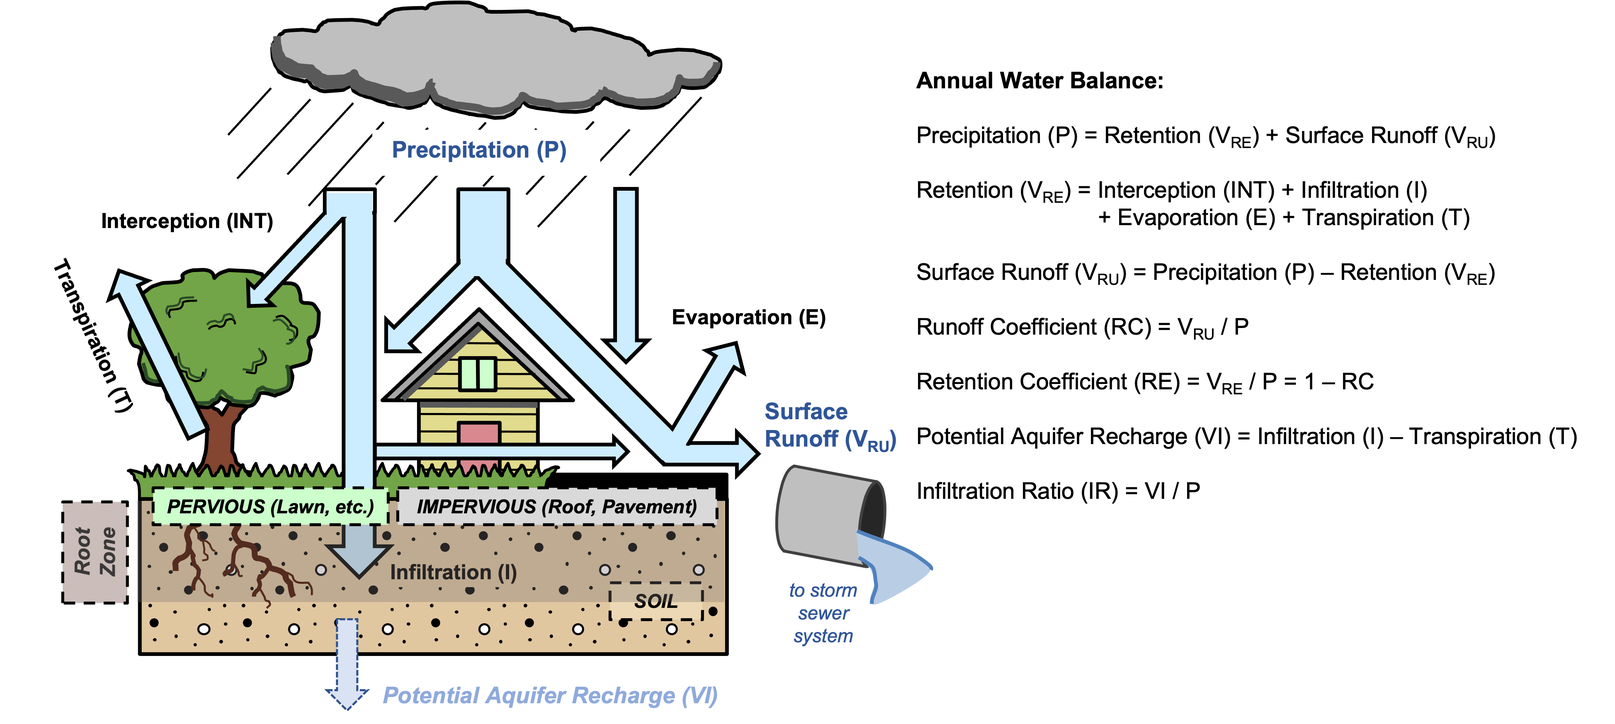
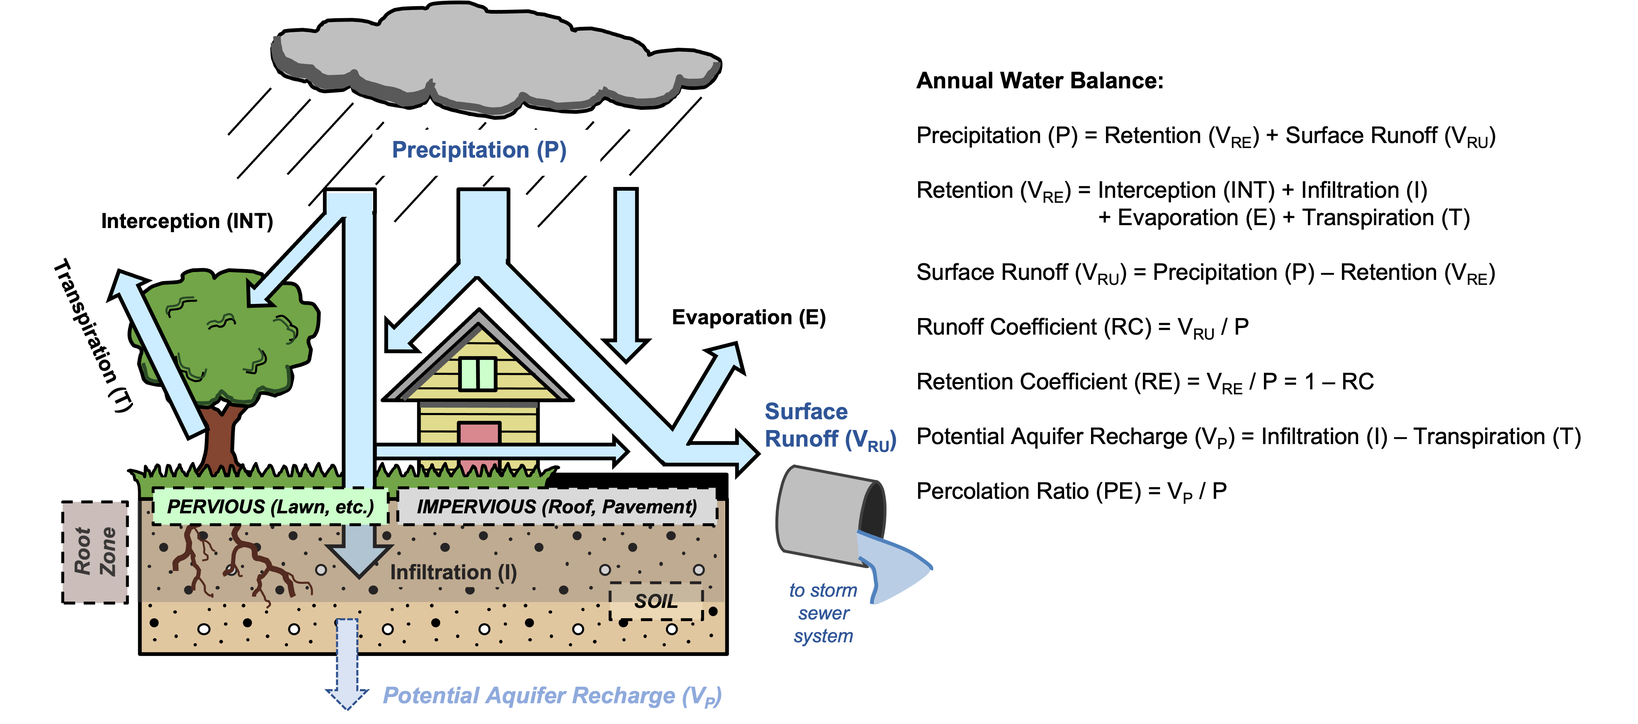
update with final changes from Ben

diff --git a/source/stormwater.rst b/source/stormwater.rst
@@ -23,57 +23,56 @@ The model calculates annual stormwater retention volume and the associated water
 .. figure:: ./stormwater/figure1_hydroschematic.png
    :scale: 25%
 
-   Major hydrologic fluxes in the urban stormwater balance, illustrating potential fates of incoming precipitation as it falls on pervious surfaces (soil or vegetation, such as lawns and trees) and impervious surfaces (rooftops and paved surfaces). Potential aquifer recharge is estimated during dry weather periods as the difference between the volume of infiltrated rainfall and the volume of water transpired by vegetation over a soil depth in which most plant roots may be found.
+   **Major hydrologic fluxes in the urban stormwater balance**, illustrating potential fates of incoming precipitation as it falls on pervious surfaces (soil or vegetation, such as lawns and trees) and impervious surfaces (rooftops and paved surfaces). Potential aquifer recharge is estimated during dry weather periods as the difference between the volume of infiltrated rainfall and the volume of water transpired by vegetation over a soil depth in which most plant roots may be found.
 
 
 Estimate stormwater retention, recharge, and runoff
 ^^^^^^^^^^^^^^^^^^^^^^^^^^^^^^^^^^^^^^^^^^^^^^^^^^^^^^^
 
-The model requires values of the annual runoff coefficients (:math:`a`), and optionally the percolation ratios (:math:`b`), for each land use-land cover (LULC) type in the biophysical table. The runoff coefficient is defined as the ratio between annual surface runoff and annual precipitation, a value between 0 and 1, while the recharge ratio is the ratio between annual percolation to groundwater (“potential aquifer recharge”) and annual precipitation (:numref:`hydro-schematic`). These coefficients will typically be a function of the land cover and soil properties in a watershed; see `Input Guidance`_ for further details on determining these values.
+The model requires values of the annual runoff coefficients (:math:`RC`), and optionally the percolation ratios (:math:`PE`), for each land use-land cover (LULC) type in the biophysical table. The runoff coefficient is defined as the ratio between annual surface runoff and annual precipitation, a value between 0 and 1, while the percolation ratio is the ratio between annual percolation to groundwater (“potential aquifer recharge”) and annual precipitation (:numref:`hydro-schematic`). These coefficients will typically be a function of the land cover and soil properties in a watershed; see `Input Guidance`_ for further details on determining these values.
 
-For each LULC class :math:`x`, the stormwater retention coefficient :math:`c_x` is calculated as:
+For each LULC x, the stormwater retention coefficient :math:`RE_x` is calculated as:
 
-.. math:: c_x = 1 - a_x
+.. math:: RE_x=1-RC_x
 
-Based on the LULC and hydrologic soil group rasters, the model assigns the stormwater retention coefficients (:math:`c_i`) to each pixel :math:`i`. Next, the model computes :math:`V_{c,i}`, the retained volume (:math:`m^3/yr`) for each pixel :math:`i` as:
+Based on the LULC and hydrologic soil group rasters, the model assigns the stormwater retention coefficients (:math:`RE_i`) to each pixel :math: `i`. Next, the model computes :math:`V_{RE,i}`, the retained volume (:math: `m3/yr`) for each pixel :math: `i` as:
 
-.. math:: V_{c,i}=0.001\cdot p_i\cdot t_i\cdot A
+.. math:: V_{RE_i}=0.001\cdot P_i\cdot RE_i\cdot pixel.area
 
-where :math:`p_i` is annual precipitation on pixel :math:`i` (:math:`mm/yr`) and :math:`A` is the pixel area in :math:`m^2`.
+where :math:`P_i` is annual precipitation (:math:`mm/yr`) and :math:`pixel.area` is the pixel area in :math:`m^2`.
 
-Runoff volume :math:`V_{a}` (:math:`m^3/yr`) is calculated from the runoff coefficients (:math:`a` or :math:`a_{adj}`): If the Adjust Retention Coefficients option is selected (see below), the runoff coefficients may differ from the input runoff coefficient values, as they are derived from the (adjusted) retention coefficients using the equation below:
+Runoff volume :math:`V_{RU}` (:math:`m^3/yr`) is calculated from the runoff coefficients (:math:`RU` or :math: `RC`): If the Adjust Retention Coefficients option is selected (see below), the runoff coefficients may differ from the input :math:`RC` values, as they are derived from the (adjusted) retention coefficients using the equation below:
 
-.. math:: a_i = 1 - c_i
+.. math:: RU_x=1-RE_x
 
-.. math:: V_{a,i}=0.001\cdot p_i\cdot c_i\cdot A
+.. math:: V_{RU,i}=0.001\cdot P_i\cdot RU_i\cdot pixel.area
 
-Optionally, if recharge ratios have been defined by the user, the model assigns these values to each pixel :math:`i` based on the LULC and soil hydrological group rasters, and computes :math:`VI`, the infiltrated volume (:math:`m^3/yr`) for each pixel :math:`i`:
+Optionally, if percolation ratios have been defined by the user, the model assigns these values to each pixel :math: `i` based on the LULC and soil hydrological group rasters, and computes :math: `V_{P}`, the volume of water that percolates through soil to recharge the aquifer (:math: `m^3/yr`) for each pixel :math: `i`:
 
-.. math:: V_{b,i}=0.001\cdot p_i\cdot b_i\cdot A
+.. math:: V_{P}_i=0.001\cdot P_i\cdot PE_i\cdot pixel.area
 
-Where :math:`b_i` is the annual recharge ratio on pixel :math:`i` (“potential aquifer recharge”; :numref:`hydro-schematic`).
-
+Where :math: `PE_i` is the annual percolation ratio (“potential aquifer recharge”; Figure :fig: `hydro-schematic`).
 
 Adjust Retention Coefficient for directly-connected impervious (Optional)
 ^^^^^^^^^^^^^^^^^^^^^^^^^^^^^^^^^^^^^^^^^^^^^^^^^^^^^^^^^^^^^^^^^^^^^^^^^^^^^^^^^^
-Retention on a given pixel, at least when considered at an aggregated sub-watershed scale, should be affected by retention on upstream and downstream pixels. (For example, the current InVEST nutrient delivery ratio model takes this into account through a flowpath delineation and retention length framework, which is not as feasible in an urban drainage network because of how storm drains alter surface and sub-surface flow paths.) To account for this retention of runoff flowing to surrounding pixels, the stormwater model optionally uses a simple modification to retention. The retention coefficient, :math:`t_{i}`, for pixel :math:`i` is adjusted upwards based on the retention value of its neighboring pixels within a certain retention radius. The adjustment, :math:`C_{i}`, is applied to the un-retained runoff from a given pixel, as follows:
+Retention on a given pixel, at least when considered at an aggregated sub-watershed scale, should be affected by retention on upstream and downstream pixels. (For example, the current InVEST nutrient delivery ratio model takes this into account through a flowpath delineation and retention length framework, which is not as feasible in an urban drainage network because of how storm drains alter surface and sub-surface flow paths.) To account for this retention of runoff flowing to surrounding pixels, the stormwater model optionally uses a simple modification to retention. The retention coefficient, :math:`RE_{i}`, for pixel :math:`i` is adjusted upwards based on the retention value of its neighboring pixels within a certain retention radius. The adjustment, :math: ‘C_{i}`, is applied to the un-retained runoff from a given pixel, as follows:
 
-.. math:: c^{adj}_{i} = c_{i} + (1 - c_{i})\cdot J_{i}
+.. math:: RE^{adj}_{i} = RE_{i} + (1 - RE_{i})\cdot C_{i}
    :label: adjusted_retention_coefficient
 
-where :math:`c^{adj}_{i}` is the adjusted retention coefficient on pixel :math:`i`, and the adjustment factor :math:‘J_{i}` has one of the following values:
+where :math: `RE^{adj}_{i}` is the adjusted retention coefficient, and the adjustment factor :math: ‘C_{i}` has one of the following values:
 
-* 0, if the pixel :math:`i` is near a directly-connected impervious area and/or near a road.
-* :math:`c_{mean,i}`, otherwise
-
+0, if the pixel :math:`i` is near a directly-connected impervious area and/or near a road.
 A pixel is "near" a directly-connected impervious area if its centerpoint is within a radius :math:`l` of the centerpoint of a pixel whose LULC class is marked as connected (has a 1 in the biophysical table ``is_connected`` column)
-A pixel is "near" a road if its centerpoint is within a radius :math:`l` of the centerpoint of a road pixel (determined by rasterizing a road centerlines vector).
+A pixel is "near" a road if its centerpoint is within a radius :math:`l` of the centerpoint of a road pixel (determined by rasterizing a road centerlines vector)
+:math:`R_{mean,i}`, otherwise
 
-:math:`c_{mean,i}` is the average retention coefficient of the pixel :math:`i` and its valid neighboring pixels. "Neighboring" pixels are those which are not further than the retention radius :math:`l` from :math:`i`, measured centerpoint-to-centerpoint.
+where :math:`R_{mean,i}` is the average retention coefficient of the pixel :math:`i` and its valid neighboring pixels. "Neighboring" pixels are those which are not further than the retention radius :math:`l` from :math:`i`, measured centerpoint-to-centerpoint.
 
 In other words, no additional retention is provided by surrounding land if the pixel is considered directly-connected, i.e., is near dense urban land use or roadways, which in most urban areas are directly connected to the drainage network by ditches or sub-surface pipes. Otherwise, the pixel’s retention coefficient is increased proportional to the retention provided by its neighboring pixels.
 
-**Note 1 on Connectedness:** The consideration of connectedness to the drainage network is somewhat subjective but should be dictated by the land cover layer being used. Thus, determination of "connectedness" is left up to the user, since land use / land cover layers might have more (or less) detail, depending on availability. The default characterization of connectedness (see the sample table in `Input Guidance`_ below) is based on the US National Land Cover Database (NLCD) and on assumptions of the connectedness of its most “developed” categories. More specifically, NLCD has broad categories of development intensity (Open, Low, Medium, and High) that are essentially bins of imperviousness, and we made the assumption that the "High" and "Medium" development categories would likely be fully connected to storm sewer systems (i.e. given a value of 1 for the ``is_connected`` column in the biophysical table), due to having > 50% imperviousness per the NLCD specification. The Low and Open categories were lower imperviousness (< 50%) and might contain some cover types like parks that are not connected and/or provide more retention, and were assumed effectively disconnected (value of 0 for ``is_connected``). Finally, the use of an optional **road line layer**, a dataset commonly available for cities, provides further classification of pixels with direct connection to the storm drain network (a calculation the model handles internally).
+
+**Note 1 on Connectedness:** The consideration of connectedness to the drainage network is somewhat subjective but should be dictated by the land cover layer being used. Thus, determination of "connectedness" is left up to the user, since land use / land cover layers might have more (or less) detail, depending on availability. The default characterization of connectedness (see the sample table in `Input Guidance`_below) is based on the US National Land Cover Database (NLCD) and on assumptions of the connectedness of its most “developed” categories. More specifically, NLCD has broad categories of development intensity (Open, Low, Medium, and High) that are essentially bins of imperviousness, and we made the assumption that the "High" and "Medium" development categories would likely be fully connected to storm sewer systems (i.e. given a value of 1 for the ``is_connected`` column in the biophysical table), due to having > 50% imperviousness per the NLCD specification. The Low and Open categories were lower imperviousness (< 50%) and might contain some cover types like parks that are not connected and/or provide more retention, and were assumed effectively disconnected (value of 0 for ``is_connected``). Finally, the use of an optional **road line layer**, a dataset commonly available for cities, provides further classification of pixels with direct connection to the storm drain network (a calculation the model handles internally).
 
 **Note 2 on Retention Radius :math:`l`:** This is the distance from a pixel over which to check for connectedness to the storm drainage network and/or consider additional retention. Another way to consider the parameter is as the maximum overland distance runoff might travel in an urban watershed before encountering connected pavement or infiltrating completely, and this might differ slightly depending on land use. For example, if the depth of a typical residential lot is 40 m, then the maximum drainage distance on the parcel to either the street (front) or the alley (back) is roughly 20 m, and thus 20 m (or less) might be an appropriate retention radius to use for a land use that is primarily dense residential.
 
@@ -82,13 +81,13 @@ In other words, no additional retention is provided by surrounding land if the p
 Calculate water quality benefits of stormwater retention (Optional)
 ^^^^^^^^^^^^^^^^^^^^^^^^^^^^^^^^^^^^^^^^^^^^^^^^^^^^^^^^^^^^^^^^^^^
 
-The potential water quality impact of stormwater retention is determined as the pollutant mass associated with retained stormwater, i.e. the amount of pollutant load avoided. The annual avoided pollutant load :math:`S`, in :math:`kg/yr`, is calculated for each pixel :math:`i` as the product of retained volume (:math:`m^3/yr`) and the event mean concentration (:math:`E`) of a pollutant, in :math:`mg/L`:
+The potential water quality impact of stormwater retention is determined as the pollutant mass associated with retained stormwater, i.e. the amount of pollutant load avoided. The annual avoided pollutant load, in :math: `kg/yr`, is calculated for each pixel :math: `i` as the product of retained volume (:math: `m^3/yr`) and the event mean concentration (:math: `EMC`) of a pollutant, in :math: `mg/L`:
 
-.. math:: S_i=0.001\cdot V_{t,i}\cdot E
+.. math:: Avoided.load_i=0.001\cdot V_{RE,i}\cdot EMC
 
-Similarly, the annual pollutant load :math:`T` (:math:`kg/yr`) exported by surface runoff is calculated from the runoff volume:
+Similarly, the annual pollutant load (:math:`kg/yr`) exported by surface runoff is calculated from the runoff volume:
 
-.. math:: T_i=0.001\cdot V_{n,i}\cdot e
+.. math:: Load_i=0.001\cdot V_{RU,i}\cdot EMC
 
 EMCs for each pollutant are assigned to land use classes using the biophysical table. Nitrogen and phosphorus are common pollutants of interest, but any stormwater pollutants (such as sediment, metals, or organic compounds) may be used by providing EMC values for those pollutants in the biophysical table. If no pollutants are included, this step is skipped.
 
@@ -98,27 +97,26 @@ Valuation of stormwater retention service (Optional)
 
 A review of the most common valuation methods for the stormwater retention service can be found in a report for local government (Catchlove, 2020). If stormwater regulations exist, the user can assess the value of stormwater retention with the target retention volume as a reference. The economic value can be assessed if the average value of retention device (currency/volume) is available.
 
-.. math:: W=q\cdot V_{c}
+.. math:: Retention.cost=PR\cdot V_{RE}
    :label: retention-value
 
-where :math:`q` is the replacement cost of stormwater retention (currency per volume, e.g., :math:`$/m^3`). For example, Simpson and McPherson (2007) estimate this to be :math:`$1.59/m^3` for urban areas in the San Francisco Bay Area (California, USA).
+Where PR is the replacement cost of stormwater retention (currency per volume, e.g., :math: `$/m^3`). For example, Simpson and McPherson (2007) estimate this to be :math:`$1.59/m^3` for urban areas in the San Francisco Bay Area (California, USA).
 
-The model can output potential groundwater recharge volume (:math:`V_{b}`), which may also serve as a valuation of retention. However, the model does not currently estimate the pollutant load associated with this recharge volume, as sub-surface transport and transformation of pollutants is not implemented in the model.
+The model can output potential groundwater recharge volume (:math: `V_{P}`), which may also serve as a valuation of retention. However, the model does not currently estimate the pollutant load associated with this recharge volume, as sub-surface transport and transformation of pollutants is not implemented in the model.
+
 
 Aggregation at the watershed scale (Optional)
 ^^^^^^^^^^^^^^^^^^^^^^^^^^^^^^^^^^^^^^^^^^^^^
 
 Users may provide a polygon vector file outlining areas over which to aggregate data (typically watersheds or sewersheds). The model will aggregate the output rasters to compute:
 
-- Average runoff ratio (average of :math:`a` values)
-- Total runoff volume, :math:`m^3` (sum of :math:`V_{a}` values)
-- Average percolation ratio (average of :math:`b` values), if percolation data is provided
-- Total percolation volume, :math:`m^3` (sum of :math:`V_{b}` values), if percolation data is provided
-- Average retention ratio (average of :math:`c` values)
-- Total retention volume, :math:`m^3` (sum of :math:`V_{c}` values)
-- Total retained pollutant load for each pollutant, :math:`kg/yr` (sum of :math:`S` values)
-- Total pollutant load for each pollutant, :math:`kg/yr` (sum of :math:`T` values)
-- Total Replacement Cost, currency units (sum of :math:`W` values, if replacement cost is provided)
+- Average stormwater retention ratio (average of :math:`RE` values)
+- Total retention volume, :math:`m^3` (sum of :math:`V_{RE}` values)
+- Total retained pollutant load for each pollutant, :math:`kg/yr` (sum of :math:`Avoided.load` values)
+- Total runoff volume, :math:`m^3` (sum of :math:`V_{RU}` values)
+- Total pollutant load for each pollutant, :math:`kg/yr` (sum of :math:`Load` values)
+- Total potential recharge volume, :math:`m^3` (sum of :math:`V_{P}`, if percolation ratios provided)
+- Total Replacement Cost, currency units (sum of replacement cost of retention services, if value specified)
 
 
 Data Needs
@@ -170,15 +168,15 @@ Note: unless otherwise stated, all ratios (e.g. retention ratio) or coefficients
 
 - **retention_ratio.tif**: A raster derived from the LULC raster and biophysical table `RC_x` columns, where each pixel's value is the stormwater retention ratio in that area
 
-- **adjusted_retention_ratio.tif** (only if "adjust retention ratios" is selected): A raster of adjusted retention ratios, calculated according to equation :eq:`adjusted_retention_coefficient` from the ‘retention_ratio, ratio_average, near_road’, and ‘near_connected_lulc’ intermediate outputs
+- **adjusted_retention_ratio.tif** (only if "adjust retention ratios" is selected): A raster of adjusted retention ratios, calculated according to equation :eq:`adjusted_retention_coefficient` from the ‘retention_ratio, ratio_average, near_road’, and ‘near_impervious_lulc’ intermediate outputs
 
 - **retention_volume.tif**: Raster map of retention volumes in :math:`m^3/yr`
 
-- **recharge_ratio.tif**: (if recharge data provided) Raster map of recharge ratios derived by cross-referencing the LULC and soil group rasters with the biophysical table
+- **percolation_ratio.tif**: (if percolation data provided) Raster map of percolation ratios derived by cross-referencing the LULC and soil group rasters with the biophysical table
 
-- **recharge_volume.tif**: (if recharge data provided) Raster map of recharge volumes in :math:`m^3/yr`
+- **percolation_volume.tif**: (if percolation data provided) Raster map of percolation (potential aquifer recharge) volumes in :math:`m^3/yr`
 
-- **runoff_ratio.tif**: A raster derived from the retention ratio raster, where each pixel's value is the stormwater runoff ratio in that area. This is the inverse of **retention_ratio.tif** (:math:`runoff = 1 - retention`).
+- **runoff_ratio.tif**: A raster derived from the retention ratio raster, where each pixel's value is the stormwater runoff ratio in that area. This is the inverse of ‘retention_ratio.tif’ (:math:`runoff = 1 - retention`).
 
 - **runoff_volume.tif**: Raster map of runoff volumes in :math:`m^3/yr`
 
@@ -192,17 +190,18 @@ Note: unless otherwise stated, all ratios (e.g. retention ratio) or coefficients
 
     - **mean_runoff_ratio**: Average runoff coefficient over this polygon
 
-    - **total_runoff_volume**: Total runoff volume over this polygon in :math:`m^3/yr`
+    - **total_runoff_volume**: Total runoff volume over this polygon in :math: `m^3/yr`
 
-    - **mean_recharge_ratio** (if recharge data provided): Average recharge ratio over this polygon
+    - **mean_percolation_ratio** (if percolation ratios provided): Average percolation (recharge) ratio over this polygon
 
-    - **total_recharge_volume** (if recharge data provided): Total recharge volume over this polygon in :math:`m^3/yr`
+    - **total_percolation_volume** (if percolation ratios provided): Total volume of potential aquifer recharge over this polygon in :math:`m^3/yr`
 
-    - **p_total_avoided_load** (for each pollutant :math:`p`): Total avoided amount of pollutant over this polygon in :math:`kg/yr`
+    - **p_total_avoided_load** (for each pollutant :math:`p`): Total avoided (retained) amount of pollutant over this polygon in :math:`kg/yr`
 
     - **p_total_load** (for each pollutant :math:`p`): Total amount of pollutant in runoff over this polygon in :math:`kg/yr`
 
     - **total_retention_value** (if value data provided): Total value of the retained volume of water over this polygon in :math:`currency/yr`
+
 
 Intermediate Outputs
 ^^^^^^^^^^^^^^^^^^^^
@@ -221,15 +220,15 @@ Intermediate Outputs
 
 - **road_distance.tif**: A raster derived from the rasterized centerlines map, where each pixel's value is its minimum distance to a road pixel (measured centerpoint-to-centerpoint)
 
-- **connected_lulc_distance.tif**: A raster derived from the **is_connected_lulc** map, where each pixel's value is its minimum distance to a connected impervious LULC pixel (measured centerpoint-to-centerpoint)
+- **connected_lulc_distance.tif**: A raster derived from the `is_connected_lulc` map, where each pixel's value is its minimum distance to a connected impervious LULC pixel (measured centerpoint-to-centerpoint)
 
-- **near_road.tif**: A binary raster derived from the **road_distance** map, where 1 means the pixel is within the retention radius of a road pixel, and 0 means it isn't
+- **near_road.tif**: A binary raster derived from the `road_distance` map, where 1 means the pixel is within the retention radius of a road pixel, and 0 means it isn't
 
-- **near_connected_lulc.tif**: A binary raster derived from the **connected_lulc_distance** map, where 1 means the pixel is within the retention radius of a connected impervious LULC pixel, and 0 means it isn't
+- **near_connected_lulc.tif**: A binary raster derived from the `connected_lulc_distance` map, where 1 means the pixel is within the retention radius of a connected impervious LULC pixel, and 0 means it isn't
 
-- **search_kernel.tif**: A binary raster representing the search kernel that is convolved with the **retention_ratio** raster to calculate the averaged retention ratio within the retention radius of each pixel
+- **search_kernel.tif**: A binary raster representing the search kernel that is convolved with the `retention_ratio` raster to calculate the averaged retention ratio within the retention radius of each pixel
 
-- **ratio_average.tif**: A raster where each pixel's value is the average of its neighborhood of pixels in the **retention_ratio** map, calculated by convolving the search kernel with the retention ratio raster
+- **ratio_average.tif**: A raster where each pixel's value is the average of its neighborhood of pixels in the `retention_ratio` map, calculated by convolving the search kernel with the retention ratio raster
 
 
 .. _Input Guidance:
@@ -240,7 +239,7 @@ Input Guidance
 Runoff Coefficients and recharge Ratios
 ^^^^^^^^^^^^^^^^^^^^^^^^^^^^^^^^^^^^^^^^^^^
 
-**Using reported data:** Runoff coefficients are commonly reported in studies of watersheds of various sizes and land use settings (urban to rural). In some cases, these studies may be available for the locations in which the Stormwater Retention model is to be applied, and reported runoff coefficients could be used directly in place of the default values. However, if these are not specified by land use in available studies, then they will be difficult to implement in the model, and default or best-guess estimates of runoff coefficients may have to be used. The model output could then be checked against the reported values as a calibration step. If runoff coefficients are known as a function of LULC type but not per hydrologic soil group (HSG), as may often be the case, then specify the same :math:`RC` value for each HSG within a given LULC type (i.e., `RC_A`, `RC_B`, `RC_C`, and `RC_D` will all have the same value in one row of the biophysical table). Do NOT leave any blanks in the biophysical table or remove required columns (:math:`lucode`, :math:`RC_x`, :math:`IR_x`).
+**Using reported data:** Runoff coefficients are commonly reported in studies of watersheds of various sizes and land use settings (urban to rural). In some cases, these studies may be available for the locations in which the Stormwater Retention model is to be applied, and reported runoff coefficients could be used directly in place of the default values. However, if these are not specified by land use in available studies, then they will be difficult to implement in the model, and default or best-guess estimates of runoff coefficients may have to be used. The model output could then be checked against the reported values as a calibration step. If runoff coefficients are known as a function of LULC type but not per hydrologic soil group (HSG), as may often be the case, then specify the same :math: `RC` value for each HSG within a given LULC type (i.e., `RC_A`, `RC_B`, `RC_C`, and `RC_D` will all have the same value in one row of the biophysical table). Do NOT leave any blanks in the biophysical table or remove required columns (:math: `lucode`, :math: `RC_x`, :math: `PE_x`).
 
 **Other methods of estimating runoff coefficients:** If runoff coefficients for each LULC type are not found from previous studies, they may be determined from the following approaches:
 
@@ -252,21 +251,18 @@ Runoff Coefficients and recharge Ratios
 
 Note that runoff coefficients for pervious land covers and bare soil should be defined for each soil hydrologic group (even if all have the same value). `RC` for water is set to 1.
 
-
-**Estimating runoff coefficients (and recharge ratios) from a SWMM model:** SWMM can be used to estimate runoff coefficients for a study area using a simple implementation of SWMM with a combination of basic land cover types and the four soil hydrologic groups (A, B, C, D). The approach is described in the SI of Hamel et al. (2021):
+**Estimating runoff coefficients (and percolation ratios) from a SWMM model:** SWMM can be used to estimate runoff coefficients for a study area using a simple implementation of SWMM with a combination of basic land cover types and the four soil hydrologic groups (A, B, C, D). The approach is described in the SI of Hamel et al. (2021):
 “The [SWMM] model consisted of several synthetic watersheds (100-m long, 10-m wide), each of which had uniform land cover comprised of bare (unvegetated), pervious (vegetated), or impervious surface; the latter two categories included instances both with and without tree canopy (e.g., ‘pervious without tree cover’), for a total of five synthetic watersheds. One set of these five watersheds was included for each of the four hydrologic soil groups (HSG; i.e., A, B, C, or D) for a total of 20 synthetic watersheds. We ran the SWMM model in a continuous simulation with 10 years (2008-2017) of local climate data (Minneapolis-St. Paul International Airport), using Horton infiltration and kinematic wave surface routing models, with snowmelt and aquifer transport enabled. Separate aquifers were defined for each soil class (differing only in infiltration capacity), and initial soil moisture conditions were average, though the use of a 10-year continuous simulation should reduce the effects of this assumption. Resulting runoff coefficients for the basic land cover classes ... were determined as the average over the entire 10-year period (rather than an average of 10 annual coefficients).”
 
-Recharge ratio (:math:`IR`), an estimate of potential groundwater recharge, was also estimated from these SWMM models by computing the difference between infiltrated rainfall and total evapotranspiration by vegetation, and normalizing this difference by total rainfall.
+Percolation ratio (:math: `PE`), an estimate of potential groundwater recharge, was also estimated from these SWMM models by computing the difference between infiltrated rainfall and total evapotranspiration by vegetation, and normalizing this difference by total rainfall.
 
-The next step was to assign or aggregate the runoff coefficients from these basic SWMM land cover types (“SW_Type" in the sample table below) to values of runoff coefficient for all cover classes in the LULC input raster (in this case, the NLCD land cover data). For some classes, assignment was straightforward: for example, the NLCD classes “scrub/shrub”, “grassland”, and “pasture/hay” were assigned the runoff coefficients for “pervious without tree canopy” (`SW_Type`=3). Classes of mixed basic cover type (impervious + pervious, canopy + open), such as “developed” classes in NLCD, required aggregation of the SW_Type based on assumptions of imperviousness and canopy levels. We assumed an imperviousness from the midpoint of interval per NLCD definition, and further assumed 50% tree cover for the basic cover types. As an example, the “high-intensity urban” NLCD class represents urban areas with 80 - 100% total impervious area (nominal value 90%): it was assigned a retention coefficient that was weighted 90% impervious, half with tree cover (so 45% “impervious without canopy” (`SW_Type`=1) and 45% “impervious without canopy” (`SW_Type`=2)) and 10% pervious, half with tree cover (so 5% “pervious without canopy” (`SW_Type`=3) and 5% “pervious with canopy” (`SW_Type`=4)). This approach produced runoff coefficients ranging from 0.76 – 0.79 for the four HSG types. Recharge ratios (:math:`IR`) were assigned to land use classes using the same approach.
+The next step was to assign or aggregate the runoff coefficients from these basic SWMM land cover types (“SW_Type" in the sample table below) to values of runoff coefficient for all cover classes in the LULC input raster (in this case, the NLCD land cover data). For some classes, assignment was straightforward: for example, the NLCD classes “scrub/shrub”, “grassland”, and “pasture/hay” were assigned the runoff coefficients for “pervious without tree canopy” (`SW_Type`=3). Classes of mixed basic cover type (impervious + pervious, canopy + open), such as “developed” classes in NLCD, required aggregation of the SW_Type based on assumptions of imperviousness and canopy levels. We assumed an imperviousness from the midpoint of interval per NLCD definition, and further assumed 50% tree cover for the basic cover types. As an example, the “high-intensity urban” NLCD class represents urban areas with 80 - 100% total impervious area (nominal value 90%): it was assigned a retention coefficient that was weighted 90% impervious, half with tree cover (so 45% “impervious without canopy” (`SW_Type`=1) and 45% “impervious without canopy” (`SW_Type`=2)) and 10% pervious, half with tree cover (so 5% “pervious without canopy” (`SW_Type`=3) and 5% “pervious with canopy” (`SW_Type`=4)). This approach produced runoff coefficients ranging from 0.76 – 0.79 for the four HSG types. Percolation ratios (:math: `PE`) were assigned to land use classes using the same approach.
 
+Example of Runoff Coefficient and Percolation Ratio table with values specified by basic SWMM land cover type (`SW_Type`) and A/B/C/D soil hydrologic group (for pervious and bare soil). Values derived from SWMM simulations using 10 years of hourly weather data (2008 - 2017) at Minneapolis-St. Paul Airport, MN, USA.
 
-Example of Runoff Coefficient and Recharge Ratio table with values specified by basic SWMM land cover type (`SW_Type`) and A/B/C/D soil hydrologic group (for pervious and bare soil). Values derived from SWMM simulations using 10 years of hourly weather data (2008 - 2017) at Minneapolis-St. Paul Airport, MN, USA.
-
-.. csv-table:: **Example Runoff and Recharge Coefficients**
+.. csv-table:: **Example Runoff and Percolation Coefficients**
       :file: ./stormwater/example_coefficients.csv
       :header-rows: 1
-
 
 Pollutant Event Mean Concentrations
 ^^^^^^^^^^^^^^^^^^^^^^^^^^^^^^^^^^^
@@ -291,7 +287,9 @@ Appendix 1: Assessing the Retention Coefficient Adjustment
 Discharge data for 18 watersheds located across the metropolitan area of Minneapolis-St. Paul MN, USA (“Twin Cities” Metro Area, or TCMA) were used for testing the Stormwater Retention model. These data were collected by a number of state agencies, and were publicly available. The sites could be roughly categorized by the flow regime and type of system being monitored:
 Large storm drains monitored by several watershed management organizations (Mississippi Watershed Management Organization, www.mwmo.org; Capitol Region Watershed District, www.capitolregionwd.org/monitoring-research/data/; South Washington Watershed District, wq.swwdmn.org), in which discharge was monitored annually, and for which mean annual stormflow volumes had already been determined [n=10 sites, plus 1 stream site monitored as part of stormwater permitting];
 Stream gauging sites, monitored by the Metropolitan Council Environmental Services (https://eims.metc.state.mn.us) and maintained by several local watershed districts, in which annual total (baseflow + stormflow) discharge were determined for periods of 10+ years [n = 6 sites].
+
 For the stream gauging sites (Group 2), in which year-round monitoring has been done for 6-30 years (depending on site/constituent), data are generally of high quality, and drainage areas are known. However, the flow volumes include baseflow, which does not allow for direct comparison to Runoff Retention model, though the sites were still tested as a case study. Only the past 10 years of data were included so that the land use classification used to run the Stormwater Retention model (U.S. NLCD, derived in 2013) was roughly contemporary with the gauging data; some of the watersheds have undergone substantial development over the previous 20-30 years.
+
 
 **Input data** included 30-m U.S. NLCD land cover classification, HSG from the NRCS-USDA Soil Survey, road lines from the state of Minnesota (gisdata.mn.gov), drainage delineations and rainfall from Metropolitan Council and respective watershed districts, with additional rainfall data from Minneapolis-St. Paul Airport (retrieved from Midwest Regional Climate Center, mrcc.purdue.edu).
 
@@ -301,11 +299,11 @@ In less developed watersheds (i.e. the streams sites), it was anticipated that u
 
 .. figure:: ./stormwater/with_adjustment.png
 
-Comparison of Modeled vs. Observed Water Yield (cm) for Twin Cities Metro Area stream and storm drain sites using the adjusted retention coefficients.
+   Comparison of Modeled vs. Observed Water Yield (cm) for Twin Cities Metro Area stream and storm drain sites using the adjusted retention coefficients.
 
 .. figure:: ./stormwater/without_adjustment.png
 
-Comparison of Modeled vs. Observed Water Yield (cm) for Twin Cities Metro Area stream and storm drain sites using the default retention coefficients.
+   Comparison of Modeled vs. Observed Water Yield (cm) for Twin Cities Metro Area stream and storm drain sites using the default retention coefficients.
 
 .. csv-table:: **RMSE and MAE parameters for base and adjusted models**
    :file: ./stormwater/base_vs_adjusted.csv
@@ -318,11 +316,13 @@ Appendix 2: Differences between InVEST and other models
 In contrast to the existing InVEST Water Yield and Nutrient Delivery Ratio models, the Stormwater retention model is concerned primarily with surface runoff, rather than total runoff (surface and sub-surface), and designed to be implemented in urban and developing watersheds. The model uses widely available satellite-derived raster datasets, such as land cover and elevation, along with user inputs in the form of target sub-watersheds or jurisdictional boundaries for aggregation of metrics (spatial data) and, optionally, location-specific runoff and water quality parameters (tabular data). In this respect, the model is very similar to other tools, including iTree and OpenNSPECT.
 
 OpenNSPECT (Open-source Nonpoint Source Pollution and Erosion Comparison Tool; https://coast.noaa.gov/digitalcoast/tools/opennspect.html) is a water quality scenario tool developed in 2014 by the U.S. National Oceanic and Atmospheric Administration (NOAA).
+
 It was designed to rapidly assess scenarios of land use and climate change impacts to water, nutrient, and sediment loading in developing watersheds. Inputs are primarily in raster format, and include C-CAP or NLCD land cover (30-m resolution), elevation (up to 1m resolution), and soil hydrologic group (USDA soil surveys), as well as event- or annual-scale precipitation (gridded or station-based). Runoff is generated on each pixel using the SCS Curve Number method, taking into account land cover and soil type (hydrologic group) and including a modification for annual runoff. Mass of nutrients (load) exported from each pixel is determined as the product of this runoff volume and a mean nutrient runoff concentration (nitrogen or phosphorus) characteristic of the pixel’s land cover type. A flow direction raster is derived from the elevation data, and used to produce flow paths and drainage basin delineations over which runoff volumes and nutrient loads are routed and aggregated.
 
 The general approach to modeling runoff and water quality in the proposed model is nearly identical to OpenNSPECT, with the following differences:
-Runoff is generated on each pixel based on runoff coefficients (runoff depth divided by rainfall depth) rather than curve number. Runoff coefficients are a function of land cover and soil hydrologic group, and are prescribed by the model but can be modified by the user based on output of other models (e.g. SWMM), local hydrology data, modified curve numbers, etc.;
-The model estimates potential groundwater recharge through use of an recharge ratio parameter, which is also prescribed by the model based on SWMM simulations in test watersheds but can be modified by the user.
+Runoff is generated on each pixel based on runoff coefficients (runoff depth divided by rainfall depth) rather than curve number. Runoff coefficients are a function of land cover and soil hydrologic group, and are prescribed by the model but can be modified by the user based on output of other models (e.g. SWMM), local hydrology data, modified curve numbers, etc.
+
+The model estimates potential groundwater recharge through use of an percolation ratio parameter, which is also prescribed by the model based on SWMM simulations in test watersheds but can be modified by the user.
 
 For additional resources for further hydrologic studies, see Beck et al. 2017.
 
